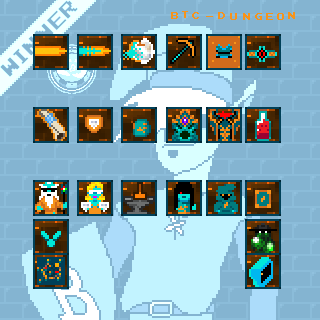
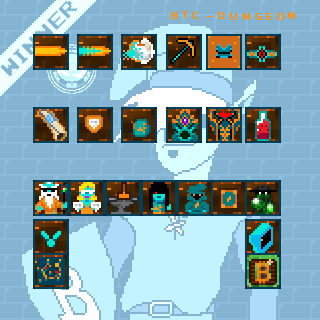
Added a Bitcoin crop field into the puzzle rooms.
Added a Bitcoin crop field into the puzzle rooms, gain X2 your Bitcoin if you manage to stay alive for 50 floors. :)

Changed region(s): [[0.2188, 0.5625, 0.875, 0.9062]]

diff --git a/index.html b/index.html
@@ -1488,6 +1488,11 @@ soulStones: 0,
 soulShards: 0,
 soulOrbs: 0,
 soulStormCharges: 256, // Track how many charges we have (max 256)
+
+farmLocked: false,
+farmLockedFloor: 0,
+farmLockedSats: 0,
+
 inSoulTerminal: false, // Track if player is in soul terminal
 soulTerminalCommand: '', // Current command input
 soulTerminalCursorPos: 0, // Cursor position in command
@@ -1582,6 +1587,9 @@ let puzzleArrows = [];       // {x,y,dir} — 'up','down','left','right'
 let puzzleBoulders = [];     // {x,y}
 let puzzleHeartFramers = []; // array of {x,y} — collect ALL to open chest
 let puzzleChest = null;      // {x,y}
+
+let farmSpot = null;
+
 let puzzleReturnPos = null;
 let puzzleTheme = 'hell';    // hell, desert, paradise
 
@@ -1839,6 +1847,14 @@ assets.arrowTile.src = 'arrow_tile.png'; // will rotate based on direction
 	assets.hooded_heirloom.src = 'hooded_heirloom.png';
 assets.cursed_ring = new Image(),
 assets.cursed_ring.src = 'cursed_ring.png';
+
+assets.farmSpot1 = new Image();
+assets.farmSpot1.src = 'farmSpot1.png';
+assets.farmSpot2 = new Image();
+assets.farmSpot2.src = 'farmSpot2.png';
+assets.farmSpot1.onerror = () => console.error('Failed to load farmSpot1.png');
+assets.farmSpot2.onerror = () => console.error('Failed to load farmSpot2.png');
+
 assets.echo_warden = new Image();
 assets.echo_warden.src = 'ἀρχάγγελος.png';
 assets.echo_warden.onerror = () => console.error('Failed to load echo_warden.png');
@@ -5205,6 +5221,29 @@ if (map[ny][nx] === 22 && !inHideout) { // Shrine tile
     }
 }
 
+if (map[ny][nx] === 27 && inPuzzleRoom && farmSpot && farmSpot.x === nx && farmSpot.y === ny) {
+    const rawSats = Object.values(satsEarned).reduce((sum, v) => sum + v, 0);
+    if (!p.farmLocked) {
+        p.farmLocked = true;
+        p.farmLockedFloor = floor;
+        p.farmLockedSats = rawSats;
+        logBattleEvent(`Floor ${floor} - SATS locked in farm soil! Harvest in 50 floors for 2X gains.`);
+        playWebAudioSound(sounds.pickup);
+    } else if (floor >= p.farmLockedFloor + 50) {
+        const harvest = p.farmLockedSats * 2;
+        satsEarned.Farm = (satsEarned.Farm || 0) + harvest;
+        logBattleEvent(`Floor ${floor} - Farm harvest! +${harvest} sats (2X gains)`);
+        playWebAudioSound(sounds.pickup);
+        updateSatsDisplay();
+        p.farmLocked = false;
+        p.farmLockedFloor = 0;
+        p.farmLockedSats = 0;
+    } else {
+        logBattleEvent(`Floor ${floor} - Farm maturing... ${p.farmLockedFloor + 50 - floor} floors left.`);
+    }
+    // Allow standing on it
+}
+
 // Add soul orb statue interaction
 if (map[ny][nx] === 21 && !inHideout) { // Soul orb statue tile
 	// Check if player already collected from this statue on current floor
@@ -7554,6 +7593,7 @@ case 'reset':
                 }
             }
         }
+                
         fogMap = Array(H).fill().map(() => Array(W).fill(1));
 
         // Re-parse the exact same layout (respecting the correct tier for this floor)
@@ -7594,6 +7634,7 @@ case 'reset':
                 if (ch === '^') puzzleArrows.push({x:cx,y:cy,dir:'up'});
                 if (ch === 'v') puzzleArrows.push({x:cx,y:cy,dir:'down'});
                 if (ch === 'S') { map[cy][cx] = 19; soulStashPos = {x:cx, y:cy}; }
+                if (ch === 'F') { map[cy][cx] = 27; farmSpot = {x:cx, y:cy}; }
             }
         }
 
@@ -8034,8 +8075,8 @@ const PUZZLE_TEMPLATES = {
 #.vLLBCBLLL^.#
 #.vLLBBBLLL^.#
 #.v>>>>>>>>^.#
-#............#
-#.S...@......#
+S............#
+F....@.......#
 ##############`,
 `##############
 #..L.....BBB.#
@@ -8046,8 +8087,8 @@ const PUZZLE_TEMPLATES = {
 #.....C......#
 #......B.....#
 #...@........#
-#.S..........#
-#............#
+S............#
+F............#
 ##############`
     ],
     rare: [
@@ -8060,8 +8101,8 @@ const PUZZLE_TEMPLATES = {
 #..#..#..#LLL#
 #..#..#..#LLL#
 #@.#..#..#...#
-#..#.BL..#.H.#
-#S.#..#..#...#
+S..#.BL..#.H.#
+F..#..#..#...#
 ##############`,
 `##############
 #....BLLL....#
@@ -8072,8 +8113,8 @@ const PUZZLE_TEMPLATES = {
 #.....##..L..#
 #.....##.....#
 #.@...##.....#
-#.....##..C..#
-#S....##.....#
+S.....##..C..#
+F.....##.....#
 ##############`
     ],
     legendary: [
@@ -8086,8 +8127,8 @@ const PUZZLE_TEMPLATES = {
 #..LLLLLLL.B.#
 #..LLLLLLL...#
 #..v<<<>>#<<<#
-#.S>>>@....B.#
-#............#
+S..>>>@....B.#
+F............#
 ##############`,
 `##############
 #BC.B.###....#
@@ -8098,8 +8139,8 @@ const PUZZLE_TEMPLATES = {
 #.....B....#.#
 #.....##...#.#
 #.....##...#.#
-#.S.@...B..#.#
-#.....##H###H#
+S...@...B..#.#
+F.....##H###H#
 ##############`
     ]
 };
@@ -8193,6 +8234,7 @@ function startPuzzleRoom() {
             if (ch === '^') puzzleArrows.push({x:cx,y:cy,dir:'up'});
             if (ch === 'v') puzzleArrows.push({x:cx,y:cy,dir:'down'});
             if (ch === 'S') { map[cy][cx] = 19; soulStashPos = {x:cx, y:cy}; }
+            if (ch === 'F') { map[cy][cx] = 27; farmSpot = {x:cx, y:cy}; }
         }
     }
 
@@ -8270,6 +8312,7 @@ updateSnowState();  // ensures snowflakes + snowy tiles match the theme
     puzzleHeartFramers = [];
     puzzleChest = null;
     soulStashPos = null;
+
     puzzleReturnPos = null;
     puzzleCurrentLayout = null;  // ← NEW: prevents reusing old layout on next floor
 
@@ -8553,6 +8596,12 @@ p.auraMoveCounter = 0; // Reset aura move counter
     p.soulShards = 0;
     p.soulOrbs = 0;
     p.soulStormCharges = 256;
+  
+farmSpot = null;  
+p.farmLocked = false;
+p.farmLockedFloor = 0;
+p.farmLockedSats = 0;
+    
     // Reset shrine tracking
     p.shrineCharges = 0;
     p.shrineUsedThisFloor = false;
@@ -9057,6 +9106,11 @@ for (let y = 0; y < H; y++) {
         if (map[y][x] === 22 && isVisible) { // Shrine tile
             c.drawImage(assets.shrine, x * S, y * S, S, S);
             needsRedraw = true; // Add this to ensure proper redraw after shrine drawing
+        }
+        
+        if (map[y][x] === 27 && farmSpot && farmSpot.x === x && farmSpot.y === y && isVisible) {
+            const mature = p.farmLocked && floor >= p.farmLockedFloor + 50;
+            c.drawImage(mature ? assets.farmSpot2 : assets.farmSpot1, x * S, y * S, S, S);
         }
     }
 }
